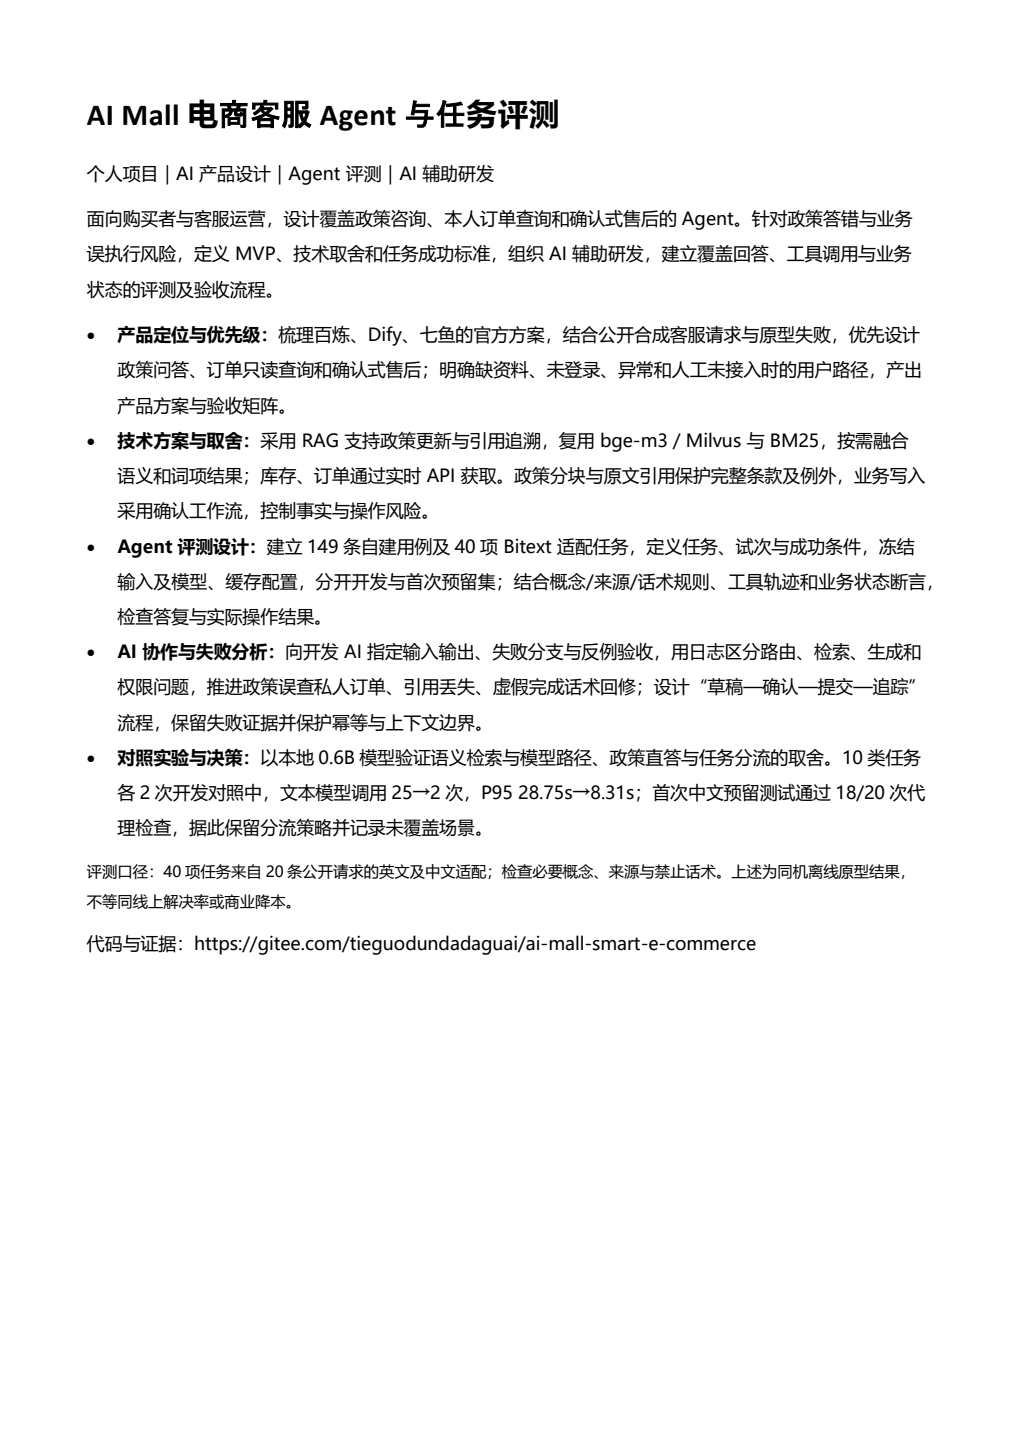
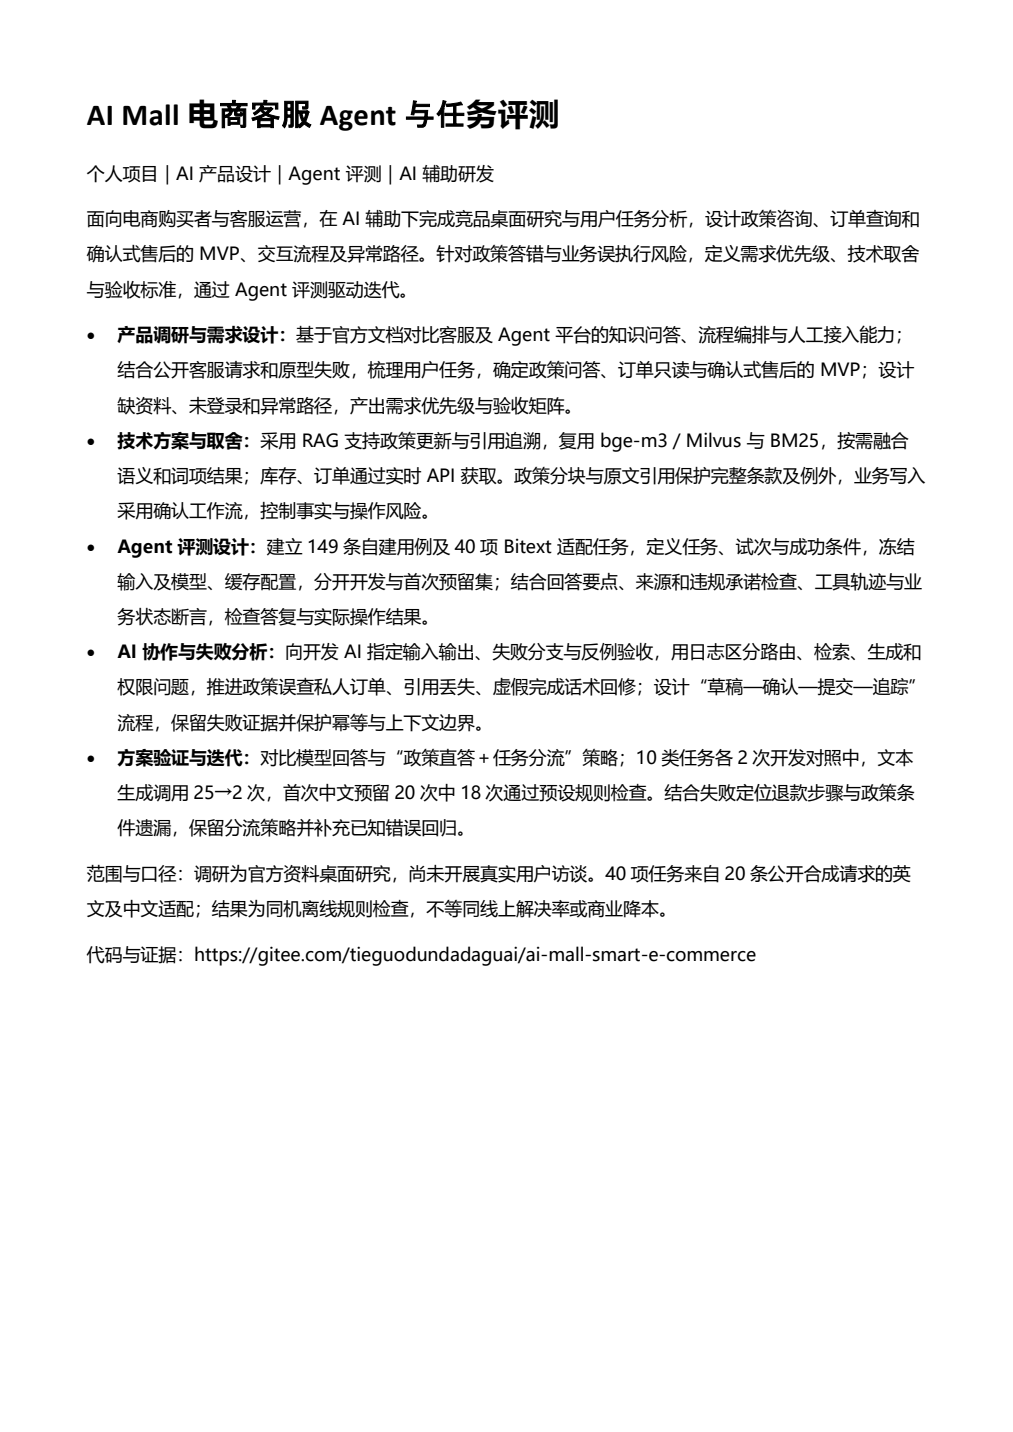
docs: clarify product research resume and add interview talking points

Changed region(s): [[0.0918, 0.1229, 0.9181, 0.3073], [0.0918, 0.5223, 0.9181, 0.676], [0.1224, 0.3994, 0.9181, 0.4609]]

diff --git a/scripts/sync-project-documents.py b/scripts/sync-project-documents.py
@@ -175,7 +175,11 @@ def audit(delivery, synchronize=False):
         reader = PdfReader(pdf)
         pdf_pages = len(reader.pages)
         extracted = ''.join(page.extract_text() or '' for page in reader.pages)
-        pdf_matches = '政策分块' in extracted and '18/20' in extracted and '25' in extracted
+        # Compare the reviewed text, so an equivalent rewrite such as "20次中18次"
+        # cannot fail merely because an obsolete literal "18/20" disappeared.
+        pdf_text = normalized(extracted).replace('\u2022', '').replace('\u25cf', '')
+        canonical = text(ROOT/'docs/product/resume-project-section.md')
+        pdf_matches = all(normalized(block) in pdf_text for block in canonical.strip().split('\n\n'))
     if not pdf_matches or pdf_pages != 1:
         issues.append({'kind': 'stale_or_wrong_length_pdf_resume', 'pages': pdf_pages})
     report = text(ROOT/'实验报告-最终版.md')
@@ -190,7 +194,7 @@ def audit(delivery, synchronize=False):
             'scope': 'Current reports, product/resume/interview documents, delivery mirrors and tracked evidence; no benchmark rerun',
             'sourceDocuments': source_records, 'deliveryDocuments': mirrors,
             'evidence': evidence_records,
-            'resume': {'docxMatchesCanonical': resume_matches, 'pdfContainsLatestChunkDecision': pdf_matches, 'pdfPages': pdf_pages,
+            'resume': {'docxMatchesCanonical': resume_matches, 'pdfMatchesCanonical': pdf_matches, 'pdfPages': pdf_pages,
                        'visualInspection': 'Manual PNG review is separate; see document-sync/resume-page.png and the audit checklist'},
             'modelCalls': 0, 'databaseWrites': 0,
             'issues': issues, 'passed': not issues}

diff --git a/docs/product/interview-evidence-guide.md b/docs/product/interview-evidence-guide.md
@@ -4,7 +4,37 @@
 
 我围绕政策咨询、本人订单读取和确认式售后定义Agent任务及验收条件，以自建用例和公开合成请求做开发对照，检查答复、工具轨迹和业务状态。评测发现来源命中仍可能答错，因此保留失败并回修；历史开发对照中的文本调用25次降到2次，首次中文预留18/20代理检查通过。后续已知回归和模型配置验证与这次首次成绩分开报告。工程由AI辅助，尚未完成真实商家与用户业务验证。
 
-## 面试追问与证据
+## 简历三处批注的答辩话术
+
+### 调研了什么，为什么不只写平台名称
+
+百炼、Dify与网易七鱼是桌面研究的竞品/替代能力来源，不是本项目实现了三套方案，也不是三个同类型产品的性能竞赛。
+
+| 对象与资料 | 看什么 | 如何影响本项目设计 |
+|---|---|---|
+| [百炼应用类型](https://help.aliyun.com/zh/model-studio/application-introduction) | Agent处理开放问题，工作流控制固定步骤，高代码用于定制集成 | 区分政策问答、实时查询与确认办理，不让全部任务自由规划 |
+| [Dify Human Input](https://dify.ai/blog/the-human-input-node-bringing-human-judgment-into-automated-workflows) | 工作流暂停，人员审阅/修改后按选择继续 | 写动作先给草稿并要求确认，设计拒绝、异常和恢复路径；未实际迁移到Dify |
+| [七鱼官方SDK](https://github.com/qiyukf/QIYU_iOS_SDK) | 机器人会话、人工客服及分配接入 | 人工联系指引与实际接入分开，未有接收回执不说已转接；未接入七鱼 |
+
+上述资料于2026-10-07复核。原百炼电商案例链接本次直接访问返回404，已改用可访问的官方应用类型说明；七鱼API页面本次未能读取，能力判断以官方SDK为依据。没有竞品试用、效果对照、采购报价或客户访谈。
+
+可口述：“我先做官方资料的桌面研究，比较知识回答、流程编排和人工协作。发现客服既要答政策，又要查实时订单，还涉及有风险的办理，所以把MVP拆成有来源的政策回答、鉴权后的订单读取、用户确认后的写动作。调研落到的是任务边界和验收矩阵，不是把几个平台名称列进简历。我没有做过这三个产品的效果跑分，也没有真实客户访谈。”
+
+### P95是什么，为什么正文不写0.6B
+
+P95是把本次请求耗时排序后取95百分位，用于观察较慢请求，而不是平均耗时。该开发实验20次试验用最近秩法，取第19个耗时；28.747s到8.309s只对应同机、同模型与该配置，不能保证线上95%的用户也如此。具体小模型规格、CPU、上下文和缓存设置保留在评测报告，投递正文改写为策略对照、调用与首次预留结果。
+
+可口述：“我验证的是路由策略是否值得保留，不是证明一个小模型已经能商用。同样输入和测试配置下，政策直答与任务分流减少了不必要生成，调用从25次变2次；首次预留20次有18次通过规则检查，失败仍保留。0.6B是当时受预算和内存约束的对照模型，不是上线模型结论。上线前还要按目标模型和业务环境重新测质量、时延、资源与成功成本。”
+
+不写0.6B可以减少与岗位无关的实现细节，但不能据此说完成了大模型商用部署；小模型只说明测试条件，原型/线上区别由用户、业务与验证范围决定。追问实验配置时据实说明，不用“企业级”替代证据。
+
+### 产品调研与设计做了什么
+
+已具备的是官方资料桌面研究、公开合成请求的任务分析、原型失败复盘、MVP及优先级、政策/订单/售后用户路径、权限/确认/异常交互和验收矩阵；证据见 [产品方案](ai-pm-product-brief.md)、[竞争与替代](competitive-and-commercial-plan.md)、[STAR](ai-pm-star-project.md)。没有真实访谈、问卷、商家需求确认或用户实验，不能补写成已经完成。
+
+可口述：“我的设计输入来自竞品官方能力、公开客服请求和原型失败。我先区分政策咨询、实时读取与业务写入，再按错误影响确定优先级，设计正常、缺资料、未登录、拒绝确认和异常路径。开发时给AI这些输入输出、权限和反例验收，评测后依据失败回修。需求频次和价值目前是假设，下一步需要真实买家与客服任务观察验证。”
+
+## 面试追问与证据表
 
 | 追问 | 重点与边界 | 证据 |
 |---|---|---|

diff --git a/docs/product/resume-project-section.md b/docs/product/resume-project-section.md
@@ -2,14 +2,14 @@
 
 个人项目｜AI 产品设计｜Agent 评测｜AI 辅助研发
 
-面向购买者与客服运营，设计覆盖政策咨询、本人订单查询和确认式售后的 Agent。针对政策答错与业务误执行风险，定义 MVP、技术取舍和任务成功标准，组织 AI 辅助研发，建立覆盖回答、工具调用与业务状态的评测及验收流程。
+面向电商购买者与客服运营，在 AI 辅助下完成竞品桌面研究与用户任务分析，设计政策咨询、订单查询和确认式售后的 MVP、交互流程及异常路径。针对政策答错与业务误执行风险，定义需求优先级、技术取舍与验收标准，通过 Agent 评测驱动迭代。
 
-- 产品定位与优先级：梳理百炼、Dify、七鱼的官方方案，结合公开合成客服请求与原型失败，优先设计政策问答、订单只读查询和确认式售后；明确缺资料、未登录、异常和人工未接入时的用户路径，产出产品方案与验收矩阵。
+- 产品调研与需求设计：基于官方文档对比客服及 Agent 平台的知识问答、流程编排与人工接入能力；结合公开客服请求和原型失败，梳理用户任务，确定政策问答、订单只读与确认式售后的 MVP；设计缺资料、未登录和异常路径，产出需求优先级与验收矩阵。
 - 技术方案与取舍：采用 RAG 支持政策更新与引用追溯，复用 bge-m3／Milvus 与 BM25，按需融合语义和词项结果；库存、订单通过实时 API 获取。政策分块与原文引用保护完整条款及例外，业务写入采用确认工作流，控制事实与操作风险。
-- Agent 评测设计：建立149条自建用例及40项 Bitext 适配任务，定义任务、试次与成功条件，冻结输入及模型、缓存配置，分开开发与首次预留集；结合概念/来源/话术规则、工具轨迹和业务状态断言，检查答复与实际操作结果。
+- Agent 评测设计：建立149条自建用例及40项 Bitext 适配任务，定义任务、试次与成功条件，冻结输入及模型、缓存配置，分开开发与首次预留集；结合回答要点、来源和违规承诺检查、工具轨迹与业务状态断言，检查答复与实际操作结果。
 - AI 协作与失败分析：向开发 AI 指定输入输出、失败分支与反例验收，用日志区分路由、检索、生成和权限问题，推进政策误查私人订单、引用丢失、虚假完成话术回修；设计“草稿—确认—提交—追踪”流程，保留失败证据并保护幂等与上下文边界。
-- 对照实验与决策：以本地0.6B模型验证语义检索与模型路径、政策直答与任务分流的取舍。10类任务各2次开发对照中，文本模型调用25→2次，P95 28.75s→8.31s；首次中文预留测试通过18/20次代理检查，据此保留分流策略并记录未覆盖场景。
+- 方案验证与迭代：对比模型回答与“政策直答＋任务分流”策略；10类任务各2次开发对照中，文本生成调用25→2次，首次中文预留20次中18次通过预设规则检查。结合失败定位退款步骤与政策条件遗漏，保留分流策略并补充已知错误回归。
 
-评测口径：40项任务来自20条公开请求的英文及中文适配；检查必要概念、来源与禁止话术。上述为同机离线原型结果，不等同线上解决率或商业降本。
+范围与口径：调研为官方资料桌面研究，尚未开展真实用户访谈。40项任务来自20条公开合成请求的英文及中文适配；结果为同机离线规则检查，不等同线上解决率或商业降本。
 
 代码与证据：https://gitee.com/tieguodundadaguai/ai-mall-smart-e-commerce

diff --git a/docs/product/competitive-and-commercial-plan.md b/docs/product/competitive-and-commercial-plan.md
@@ -1,16 +1,16 @@
 # AI-Mall 竞品定位与商业验证方案
 
-资料核对日期：2026-10-06。这里区分官方能力资料与产品判断；未实测竞品效果，没有报价、客户访谈或采购合同。
+原资料核对日期：2026-10-06；2026-10-07复核官方应用类型、人工参与与SDK能力。这里区分官方能力资料与产品判断；未实测竞品效果，没有报价、客户访谈或采购合同。
 
 ## 竞品与替代方案
 
 | 方案 | 官方可确认能力 | 对本项目的启示 |
 |---|---|---|
-| 网易七鱼 | SDK 支持机器人/人工会话，API 包含转接关联字段 | 人工接入必须有真实接收状态；本项目的联系指引还不具备这种能力 |
-| 阿里云百炼电商客服方案 | 提供问答、RAG、Agent 和复杂流程应用模式 | 按任务选择服务方式，基础平台采购可减少搭建工作 |
+| 网易七鱼客服接入 | 官方SDK支持机器人与人工客服会话及指定客服 | 人工接入必须有真实接收状态；本项目的联系指引还不具备这种能力 |
+| 阿里云百炼应用构建 | 官方应用类型区分Agent、工作流与高代码，支持知识及外部工具集成 | 按开放问题、固定流程与定制业务分别设计；未实际采购/部署百炼 |
 | Dify | 知识检索、工作流、Human Input 人参与节点 | 编排平台可用于快速原型，业务 API 与结果验收仍需要设计 |
 
-来源：[七鱼官方 SDK](https://github.com/qiyukf/QIYU_iOS_SDK)、[七鱼会话字段](https://qiyukf.apifox.cn/doc-437028)、[百炼电商客服方案](https://help.aliyun.com/zh/model-studio/build-ai-applications-based-on-alibaba-cloud-model-studio)、[Dify 官方平台](https://www.dify.ai/)、[Human Input](https://dify.ai/blog/the-human-input-node-bringing-human-judgment-into-automated-workflows)。这些资料不支持“竞品没有确认流程”或“自研必然更好、更便宜”的结论。
+来源：[七鱼官方 SDK](https://github.com/qiyukf/QIYU_iOS_SDK)、[百炼应用类型](https://help.aliyun.com/zh/model-studio/application-introduction)、[Dify 官方平台](https://www.dify.ai/)、[Human Input](https://dify.ai/blog/the-human-input-node-bringing-human-judgment-into-automated-workflows)。原百炼电商案例链接本次直接读取为404，七鱼API页面本次未能读取，已改用可核验的官方资料。这些资料不支持“竞品没有确认流程”或“自研必然更好、更便宜”的结论。
 
 产品判断：中小商家需要接待渠道、订单系统接入、可靠回答和异常恢复，未必需要重建商城。本项目应把现有电商系统作为验证环境，把带证据的政策服务、确认后的业务动作和可复现评测作为作品重点。商用探索优先接成熟客服渠道并复用业务系统。
 

diff --git a/docs/product/resume-reference-review.md b/docs/product/resume-reference-review.md
@@ -29,3 +29,5 @@
 公开样例比本项目强的部分，可能是现场用户研究或上线业务验证；这些只能通过真实工作补齐。措辞可以改善贡献呈现，不能填补不存在的经历。正式投递前，由本人确认职责、周期并熟悉所有被引用的结果。
 
 2026-10-07文稿核对补充：投递项目段落纳入“政策分块保护完整条款与例外”的技术选择，详见 [项目段落](resume-project-section.md) 与 [分块验证](chunk-strategy-review.md)。新增措辞不补写用户研究或业务上线，也不把合成结构8/8写成通用准确率。
+
+同日简历批注修订：把笼统的“梳理百炼/Dify/七鱼方案”改为具体比较知识问答、流程编排与人工接入，突出竞品桌面研究、用户任务分析及MVP/交互设计。0.6B与P95从投递正文移至实验/面试说明，完整配置和原型范围仍保留；没有改写原始成绩或虚构调研。对应口述见 [批注答辩话术](interview-evidence-guide.md)。

diff --git a/docs/product/ai-pm-star-project.md b/docs/product/ai-pm-star-project.md
@@ -16,6 +16,8 @@
 
 ## A 技术选型如何服务产品目标
 
+产品设计的输入包括竞品官方资料桌面研究、公开合成客服请求与原型失败；对比知识问答、流程编排、人工接入能力，形成政策咨询/实时读取/确认写入的任务划分、MVP优先级及异常路径。尚未完成真实访谈、商家验证与用户实验，不能把任务分析写成已经证实的需求频次。简历三处批注对应的具体资料和口述话术见 [答辩准备](interview-evidence-guide.md)。
+
 | 产品需求 | 选择 | 为什么这样选 | 取舍与边界 |
 |---|---|---|---|
 | 商家政策可更新、可追溯 | RAG、版本化来源和内容哈希 | 政策事实由当前资料提供，更新不必依赖重新训练模型，出错可以追溯依据 | 没有实测 RAG 与微调的优劣；来源命中不能保证答案正确 |

diff --git a/docs/product/document-sync-audit.md b/docs/product/document-sync-audit.md
@@ -10,6 +10,8 @@
 
 ## 当前材料与交付对应
 
+同日简历批注进一步修订：明确桌面研究与需求设计，移出正文的小模型规格/P95保留在实验说明，补三条批注的答辩话术并复核官方资料；重新生成Word/PDF及同步交付，原始实验数值不变。
+
 | 仓库入口 | 简历目录文件 | 核验重点 |
 |---|---|---|
 | [实验报告最终版](../../实验报告-最终版.md) | 实验报告-最终版.md | 全文各章节、历史与当前口径；不只补第六章 |
